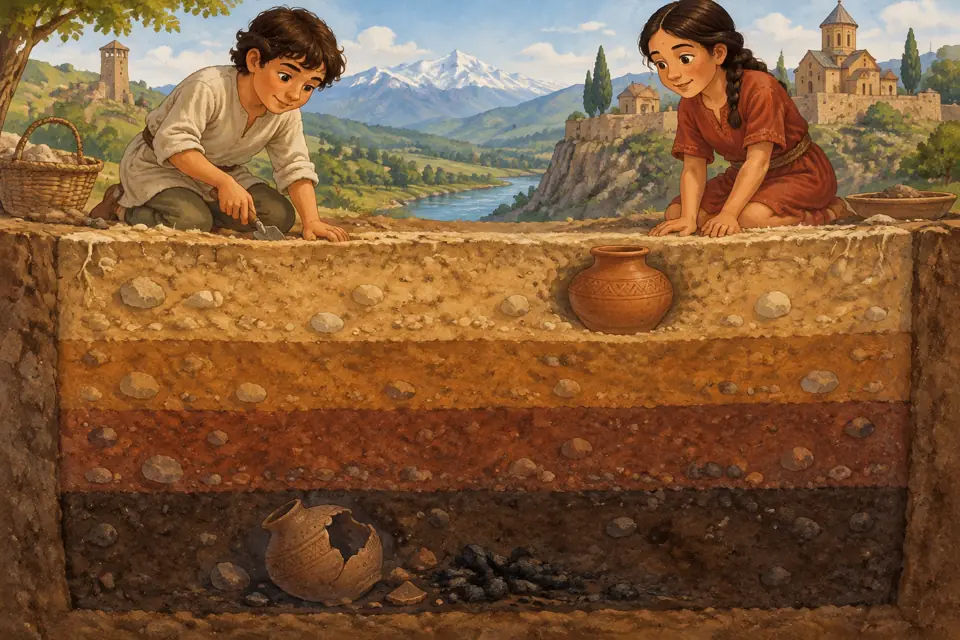
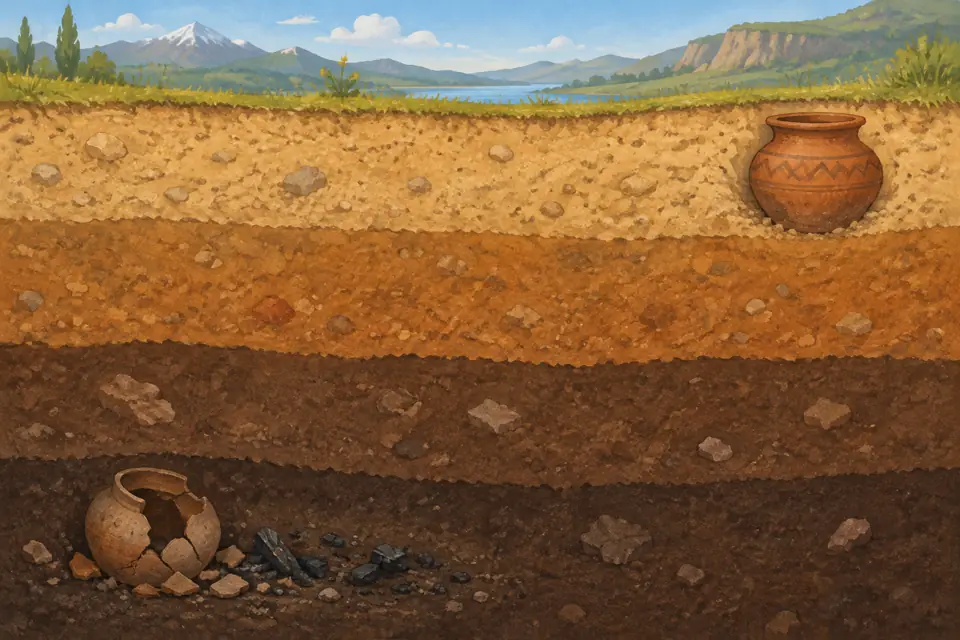
Fix the dig trench: clear A and B pots on a painted soil cross-section

diff --git a/src/content/stations/s01-prehistory.ts b/src/content/stations/s01-prehistory.ts
@@ -56,16 +56,16 @@ export const station: Station = {
   ],
   look: {
     artifact: 'dig-trench',
-    see: 'This is a dig trench, cut down through the soil. Tap the three things the archaeologist found.',
+    see: 'A dig trench, cut down through the soil layers. Look for pot A and pot B. Tap the three things the archaeologist found.',
     hotspots: [
-      { x: 30, y: 30, label: 'Pottery B, in the top layer' },
-      { x: 62, y: 78, label: 'Pottery A, in the bottom layer' },
-      { x: 78, y: 70, label: 'Charcoal from an old fire, next to pottery A' },
+      { x: 68, y: 30, label: 'Pot B, in the top layer' },
+      { x: 28, y: 68, label: 'Pot A, broken, in the bottom layer' },
+      { x: 50, y: 82, label: 'Charcoal from an old fire, next to pot A' },
     ],
     items: [
-      choice('s01-l1', 'THINK: Which pottery is older?', ['Pottery A, in the bottom layer', 'Pottery B, in the top layer', 'They are the same age', 'We cannot say anything'],
-        'Deeper layers are usually older (stratigraphy), so pottery A is older than pottery B.'),
-      choice('s01-l2', 'THINK: What could radiocarbon dating measure here?', ['The charcoal next to pottery A', 'The clay of pottery A', 'The clay of pottery B', 'The soil itself'],
+      choice('s01-l1', 'THINK: Which pot is older, A or B?', ['Pot A, in the bottom layer', 'Pot B, in the top layer', 'They are the same age', 'We cannot say anything'],
+        'Deeper layers are usually older (stratigraphy), so pot A is older than pot B.'),
+      choice('s01-l2', 'THINK: What could radiocarbon dating measure here?', ['The charcoal next to pot A', 'The clay of pot A', 'The clay of pot B', 'The soil itself'],
         'Radiocarbon dates once-living remains, like charcoal. It cannot date the pottery itself.'),
       choice('s01-l3', 'WONDER: What can this trench NOT tell us?', ['What the people believed or felt', 'Which layer is older', 'That people used fire', 'That people made pottery'],
         'Physical evidence is reliable, but it cannot tell us what people believed or felt.'),

diff --git a/src/art/scenes.tsx b/src/art/scenes.tsx
@@ -93,14 +93,15 @@ const scenes: Record<string, () => ReactElement> = {
     </Frame>
   ),
   trench: () => (
-    <Frame>
-      <Layers />
-      <Jar x={120} y={100} s={0.5} color="#d08a4e" />
-      <Label x={150} y={80} size={13}>B</Label>
-      <Jar x={250} y={250} s={0.5} />
-      <Label x={280} y={220} size={13}>A</Label>
-      <g transform="translate(312 182)">{[0, 10, 20].map((d) => <rect key={d} x={d} y={d % 7} width="9" height="6" fill="#222" />)}</g>
-    </Frame>
+    <svg viewBox="0 0 1536 1024" className="art" role="img" aria-label="A dig trench: pot B in the top layer, pot A in the bottom layer" style={{ aspectRatio: '3 / 2' }}>
+      <image href="./img/art-layers.webp" width="1536" height="1024" />
+      {([['B', 1418, 175], ['A', 95, 690]] as const).map(([t, x, y]) => (
+        <g key={t}>
+          <circle cx={x} cy={y} r="62" fill="#fff" stroke={C.ink} strokeWidth="8" />
+          <text x={x} y={y + 30} textAnchor="middle" fontSize="88" fontWeight="900" fill={C.ink} fontFamily="Nunito, sans-serif">{t}</text>
+        </g>
+      ))}
+    </svg>
   ),
   people: () => (
     <Frame>
